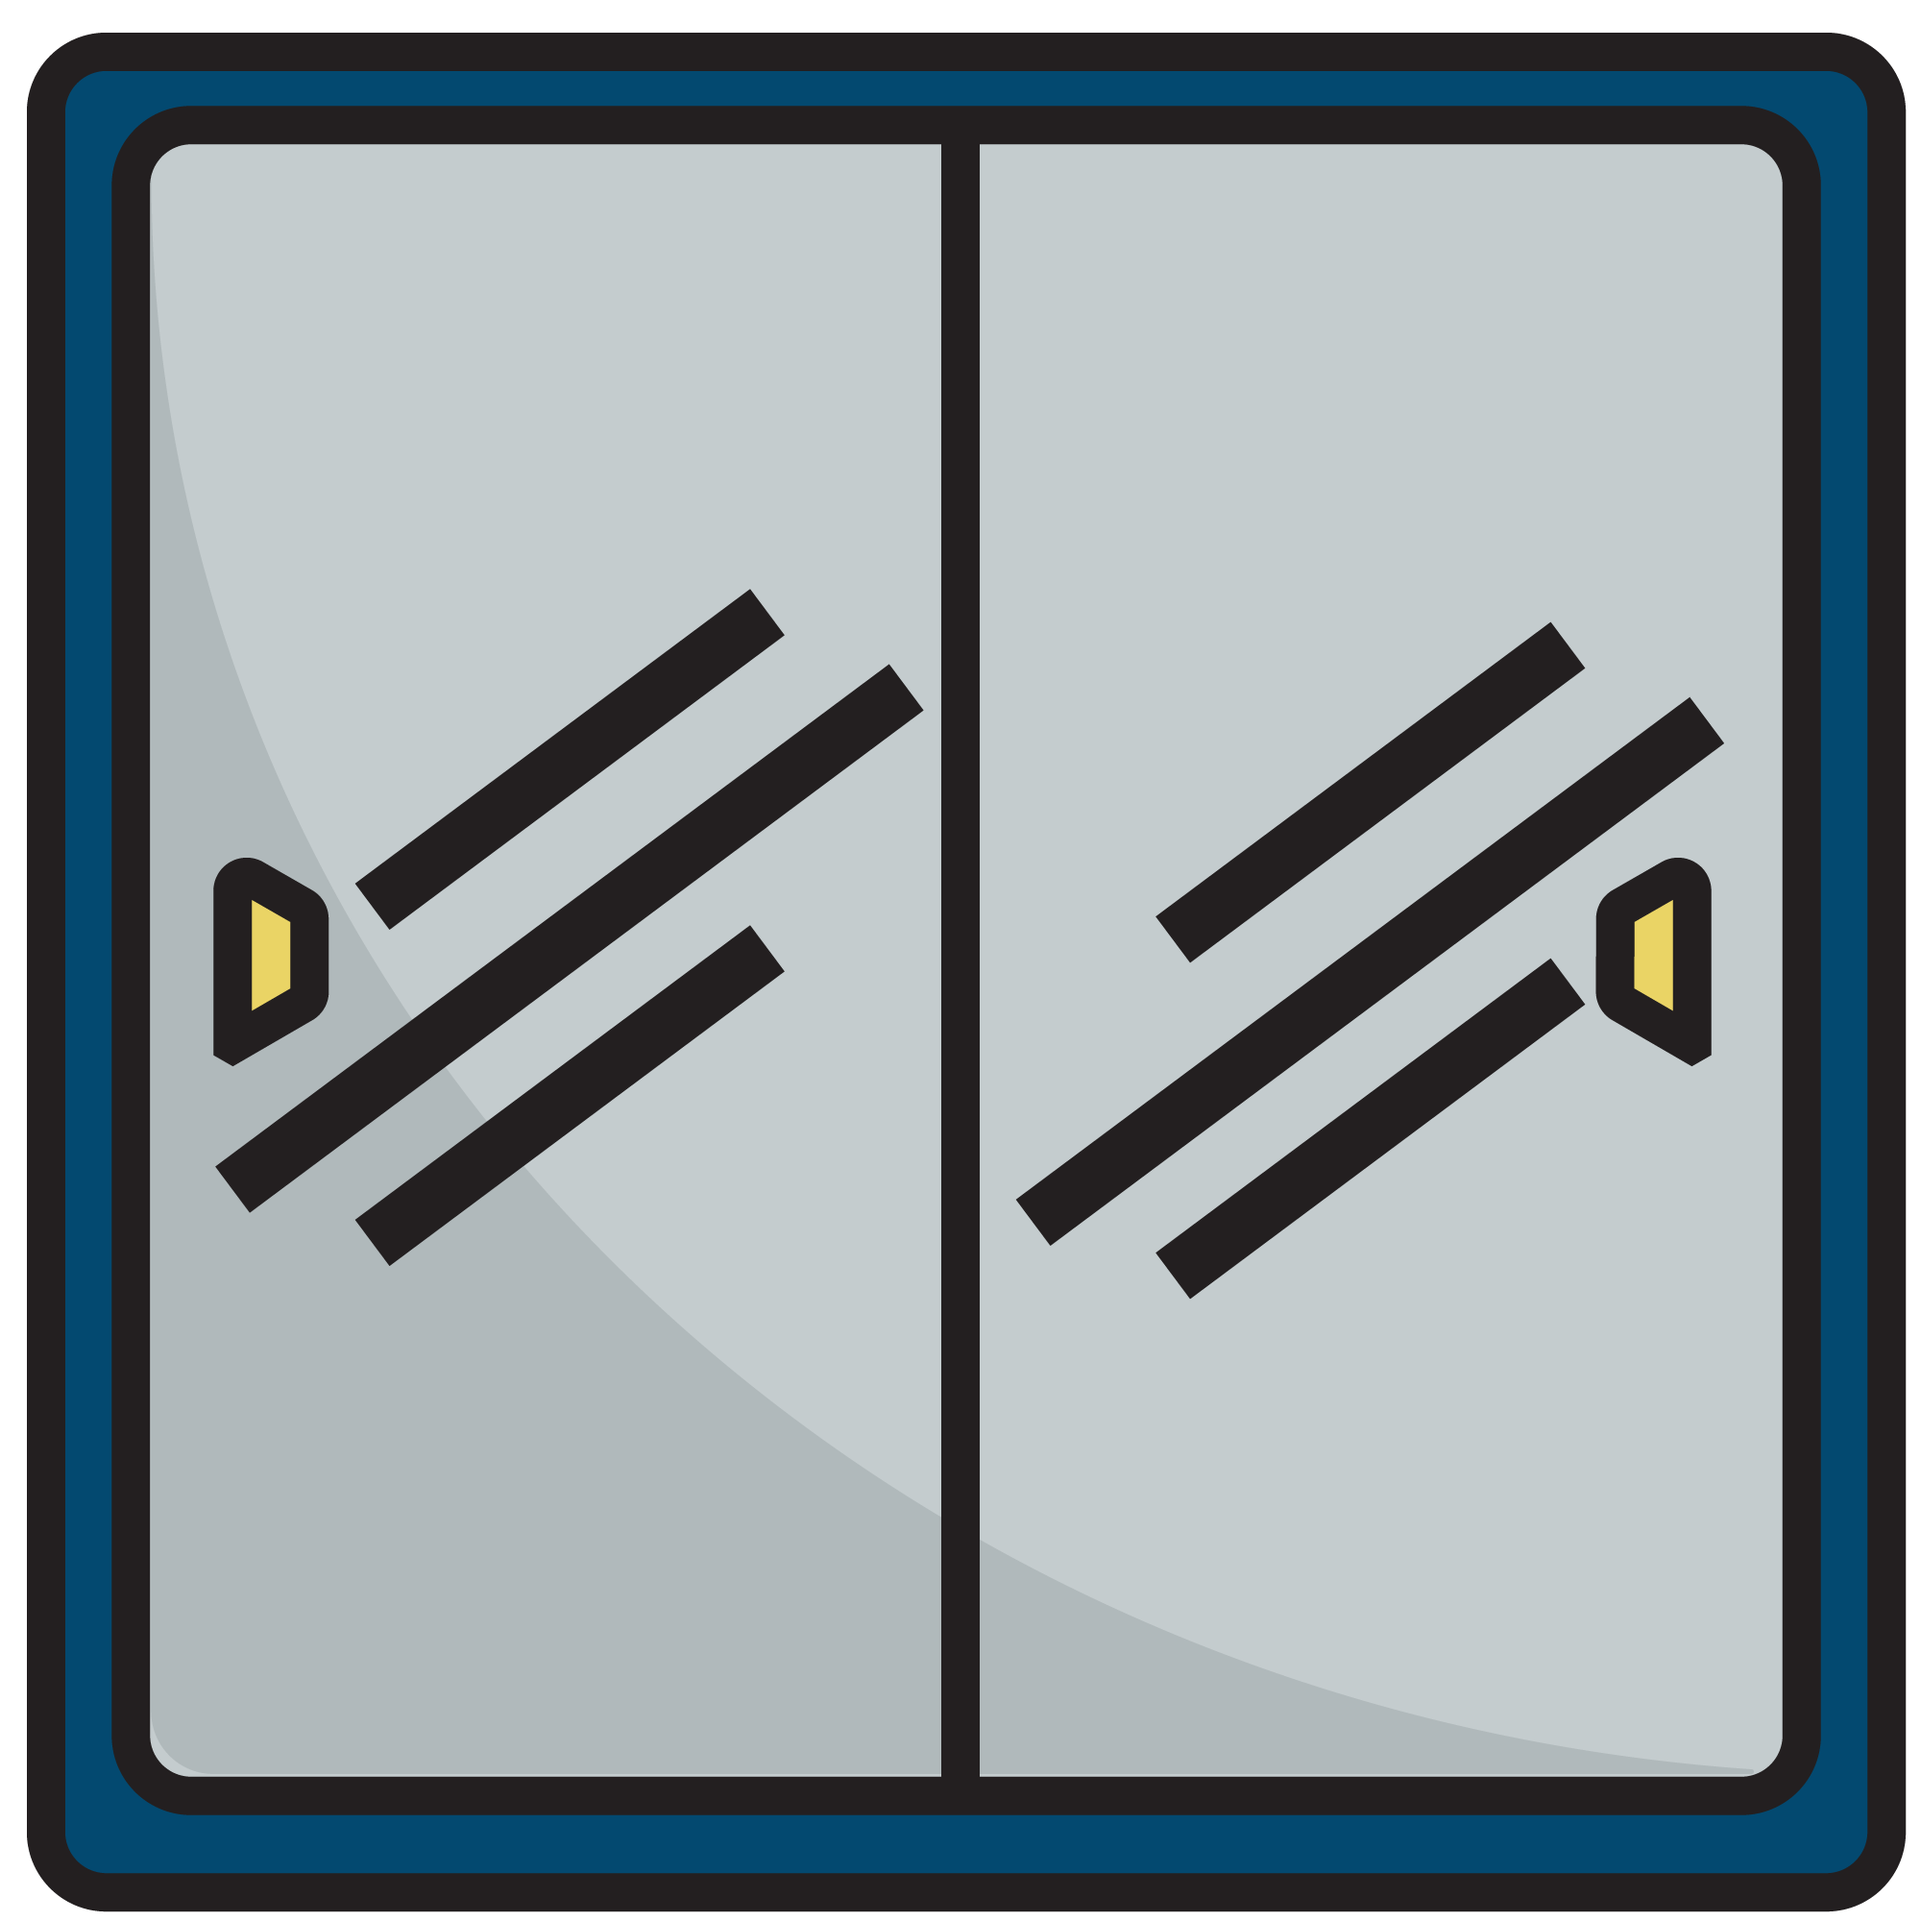
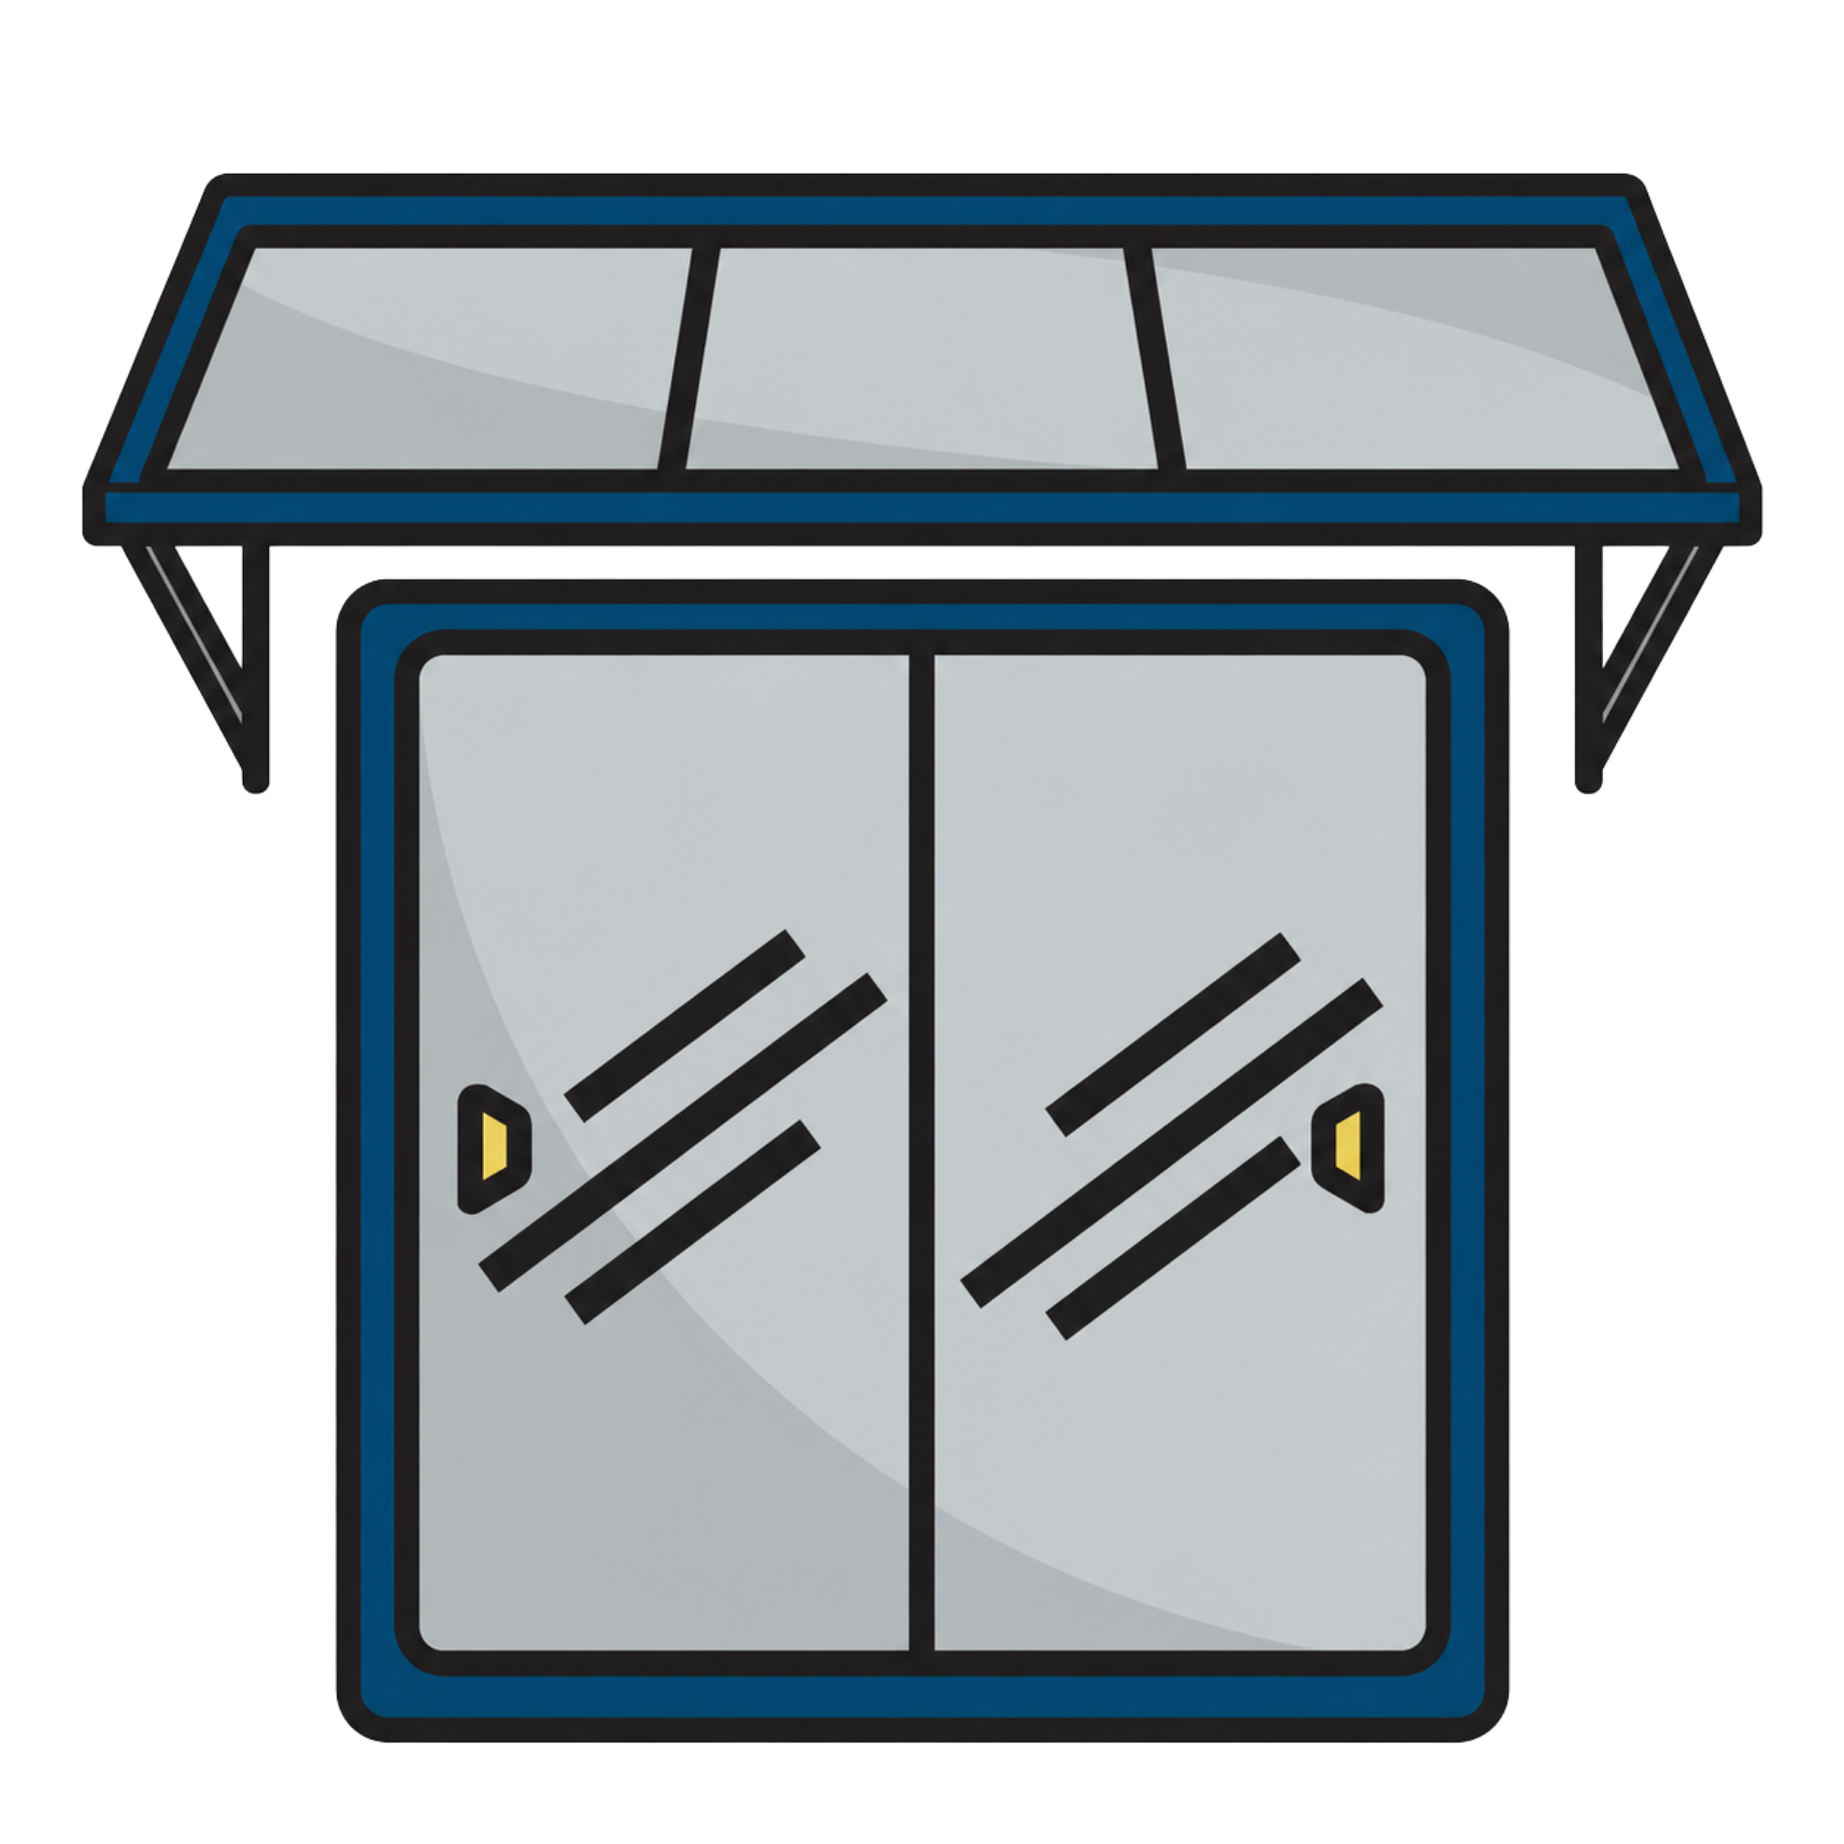
link halaman

diff --git a/src/components/Navbar.tsx b/src/components/Navbar.tsx
@@ -43,7 +43,7 @@ export default function Navbar() {
           </a>
           <a href="mailto:nemuworkshopid@gmail.com" className="flex items-center space-x-2 hover:text-gray-300 transition">
             <MdOutlineMail />
-            <span>nemuworkshopid@gmail.com</span>
+            <span>nemuworkshop@gmail.com</span>
           </a>
         </div>
         <div className="flex space-x-4">
@@ -95,14 +95,14 @@ export default function Navbar() {
               </div>
               <div className="absolute hidden group-hover:block top-full left-0 bg-[#f9f9f9] shadow-lg rounded-lg py-2 w-48 z-50">
                 <div className="absolute h-2 w-full top-[-8px]"></div>
-                <Link to="/jenis-jendela" className="block px-4 py-2 text-gray-900 hover:bg-gray-200">Pagar</Link>
-                <Link to="/sliding-door" className="block px-4 py-2 text-gray-900 hover:bg-gray-200">Kanopi</Link>
-                <Link to="/partisi-kaca" className="block px-4 py-2 text-gray-900 hover:bg-gray-200">Railing</Link>
-                <Link to="/pintulipat-aluminium" className="block px-4 py-2 text-gray-900 hover:bg-gray-200">Baja Ringan</Link>
-                <Link to="/pintu-floorhinge" className="block px-4 py-2 text-gray-900 hover:bg-gray-200">Mezzanine</Link>
-                <Link to="/kanopi-kaca" className="block px-4 py-2 text-gray-900 hover:bg-gray-200">Stainless Steel</Link>
-                <Link to="/kitchenset-aluminium" className="block px-4 py-2 text-gray-900 hover:bg-gray-200">Tangga</Link>
-                <Link to="/kandang-kucing" className="block px-4 py-2 text-gray-900 hover:bg-gray-200">Alperon</Link>
+                <Link to="/pagar-besi" className="block px-4 py-2 text-gray-900 hover:bg-gray-200">Pagar</Link>
+                <Link to="/kanopi" className="block px-4 py-2 text-gray-900 hover:bg-gray-200">Kanopi</Link>
+                <Link to="/railing" className="block px-4 py-2 text-gray-900 hover:bg-gray-200">Railing</Link>
+                <Link to="/baja-ringan" className="block px-4 py-2 text-gray-900 hover:bg-gray-200">Baja Ringan</Link>
+                <Link to="/mezzanine" className="block px-4 py-2 text-gray-900 hover:bg-gray-200">Mezzanine</Link>
+                <Link to="/stainles" className="block px-4 py-2 text-gray-900 hover:bg-gray-200">Stainless Steel</Link>
+                <Link to="/tangga" className="block px-4 py-2 text-gray-900 hover:bg-gray-200">Tangga</Link>
+                <Link to="/alperon" className="block px-4 py-2 text-gray-900 hover:bg-gray-200">Alperon</Link>
               </div>
             </div>
 
@@ -146,14 +146,14 @@ export default function Navbar() {
             <div>
               <p className="text-base font-medium mb-2">Layanan</p>
               <div className="ml-4 mt-2 flex flex-col space-y-2">
-                <Link to="/jenis-jendela" className="text-sm" onClick={() => setIsOpen(false)}>Pagar</Link>
-                <Link to="/sliding-door" className="text-sm" onClick={() => setIsOpen(false)}>Kanopi</Link>
-                <Link to="/partisi-kaca" className="text-sm" onClick={() => setIsOpen(false)}>Railing</Link>
-                <Link to="/pintulipat-aluminium" className="text-sm" onClick={() => setIsOpen(false)}>Baja Ringan</Link>
-                <Link to="/pintu-floorhinge" className="text-sm" onClick={() => setIsOpen(false)}>Mezzanine</Link>
-                <Link to="/kanopi-kaca" className="text-sm" onClick={() => setIsOpen(false)}>Stainless Steel</Link>
-                <Link to="/kitchenset-aluminium" className="text-sm" onClick={() => setIsOpen(false)}>Tangga</Link>
-                <Link to="/kandang-kucing" className="text-sm" onClick={() => setIsOpen(false)}>Alperon</Link>
+                <Link to="/pagar-besi" className="text-sm" onClick={() => setIsOpen(false)}>Pagar</Link>
+                <Link to="/kanopi" className="text-sm" onClick={() => setIsOpen(false)}>Kanopi</Link>
+                <Link to="/railing" className="text-sm" onClick={() => setIsOpen(false)}>Railing</Link>
+                <Link to="/baja-ringan" className="text-sm" onClick={() => setIsOpen(false)}>Baja Ringan</Link>
+                <Link to="/mezzanine" className="text-sm" onClick={() => setIsOpen(false)}>Mezzanine</Link>
+                <Link to="/stainles" className="text-sm" onClick={() => setIsOpen(false)}>Stainless Steel</Link>
+                <Link to="/tangga" className="text-sm" onClick={() => setIsOpen(false)}>Tangga</Link>
+                <Link to="/alperon" className="text-sm" onClick={() => setIsOpen(false)}>Alperon</Link>
               </div>
             </div>
 

diff --git a/src/App.tsx b/src/App.tsx
@@ -52,14 +52,14 @@ function App() {
           <Route path="/services" element={<ServicesPage />} />
           <Route path="/gallery" element={<Gallery />} />
           <Route path="/contact" element={<Contact />} />
-          <Route path="/jenis-jendela" element={<JenisJendela />} />
-          <Route path="/partisi-kaca" element={<Partisikaca />} />
-          <Route path="/sliding-door" element={<Slidingdoor />} />
-          <Route path="/pintulipat-aluminium" element={<PintuLipatAluminium />} />
-          <Route path="/pintu-floorhinge" element={<PintuFloorhinge />} />
-          <Route path="/kanopi-kaca" element={<KanopiKaca />} />
-          <Route path="/kitchenset-aluminium" element={<KitchensetAluminium />} />
-          <Route path="/kandang-Kucing" element={<KandangKucing />} />
+          <Route path="/pagar-besi" element={<JenisJendela />} />
+          <Route path="/railing" element={<Partisikaca />} />
+          <Route path="/kanopi" element={<Slidingdoor />} />
+          <Route path="/baja-ringan" element={<PintuLipatAluminium />} />
+          <Route path="/mezzanine" element={<PintuFloorhinge />} />
+          <Route path="/stainles" element={<KanopiKaca />} />
+          <Route path="/tangga" element={<KitchensetAluminium />} />
+          <Route path="/alperon" element={<KandangKucing />} />
           <Route path="/artikel" element={<Artikel />} />
           <Route path="/berita" element={<Berita />} />
           <Route path="/artikel/partisi-aluminium-modern" element={<Artikel2 />} />

diff --git a/src/components/Welcome.tsx b/src/components/Welcome.tsx
@@ -2,6 +2,7 @@ import React from 'react';
 import { motion } from 'framer-motion';
 import jendelaIcon from '../assets/jendela.png';
 import kacaIcon from '../assets/kaca.png';
+import Mezanine from '../assets/mezanine.png';
 import pintuIcon from '../assets/pintu.png';
 import pengalamanImg from "../assets/pagarduma2.jpeg";
 
@@ -75,7 +76,7 @@ export default function Welcome() {
                 title: "Railing & Tangga",
                 desc: "Pembuatan railing balkon, railing tangga, tangga layang, tangga putar, stainless railing, dan konstruksi tangga modern."
               }, {
-                icon: kacaIcon,
+                icon: Mezanine,
                 title: "Produk Lainnya",
                 desc: "Mejanin, alperon, tempa klasik, stainless custom, baja ringan, dan berbagai kebutuhan workshop & konstruksi lainnya."
               }].map((item, idx) => (
